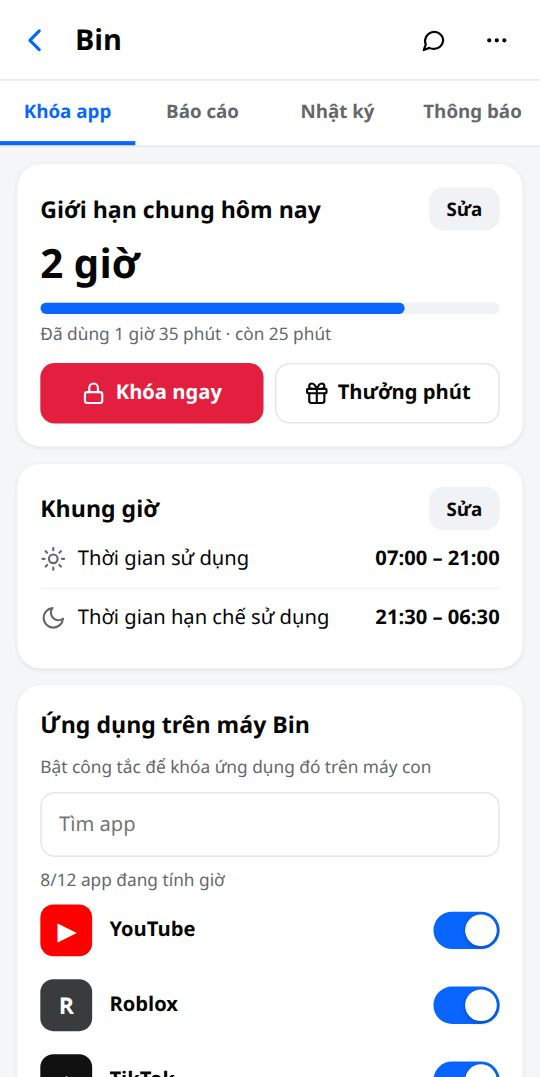
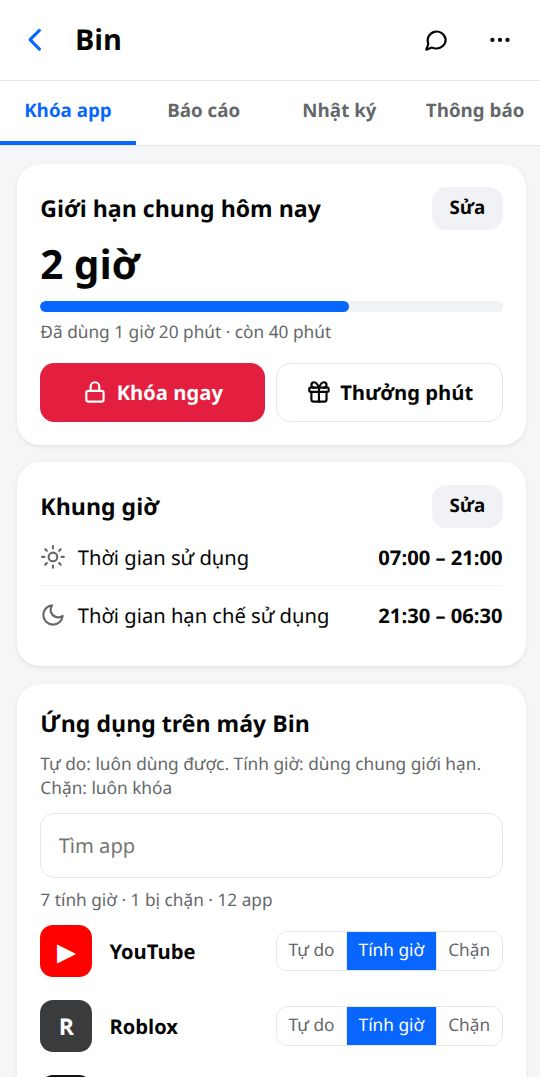
Sync guide: per-app levels Free/Timed/Blocked, blocked lock screen, copy link in log

diff --git a/guide/parent.html b/guide/parent.html
@@ -150,12 +150,13 @@
     <p>Mỗi máy con có luật riêng. Máy con bị khóa khi gặp 1 trong các trường hợp sau:</p>
     <table>
       <tr><th>Trường hợp</th><th>Khóa gì</th></tr>
-      <tr><td>Hết giới hạn chung trong ngày</td><td>Khóa các app đang <b>bật</b> công tắc. App tắt công tắc vẫn dùng được.</td></tr>
+      <tr><td>Hết giới hạn chung trong ngày</td><td>Khóa các app <b>Tính giờ</b>. App Tự do vẫn dùng được.</td></tr>
+      <tr><td>App bị cha mẹ <b>Chặn</b></td><td>Luôn khóa app đó ("Bố mẹ đã chặn app này")</td></tr>
       <tr><td>Ngoài <b>Thời gian sử dụng</b></td><td>Khóa cả máy</td></tr>
       <tr><td>Trong <b>Thời gian hạn chế sử dụng</b> (giờ ngủ)</td><td>Khóa cả máy</td></tr>
       <tr><td>Cha mẹ bấm <b>Khóa ngay</b></td><td>Khóa cả máy tới khi mở khóa</td></tr>
     </table>
-    <div class="note"><b>Khi máy bị khóa, con vẫn:</b> gọi điện thoại, nhắn tin và gọi video cho người trong nhóm qua kidguard, mở các app tắt công tắc (ví dụ Google Classroom, Zalo).</div>
+    <div class="note"><b>Khi máy bị khóa, con vẫn:</b> gọi điện thoại, nhắn tin và gọi video cho người trong nhóm qua kidguard, mở các app Tự do (ví dụ Google Classroom, Zalo).</div>
     <div class="note"><b>Ngày mới bắt đầu lúc 00:00</b> theo giờ trên máy con. Phút đã dùng và phút thưởng quay về 0.</div>
   </section>
 
@@ -173,22 +174,23 @@
     </div>
     <p>Thanh xanh dưới số giờ cho biết con đã dùng bao nhiêu, còn bao nhiêu.</p>
     <div class="cases">
-      <div><b>Khi</b> giảm giới hạn xuống thấp hơn số con đã dùng → các app bật công tắc bị khóa ngay.</div>
+      <div><b>Khi</b> giảm giới hạn xuống thấp hơn số con đã dùng → các app Tính giờ bị khóa ngay.</div>
       <div><b>Khi</b> máy con mất mạng → máy vẫn khóa đúng theo luật đã lưu. Luật mới chỉ tới khi có mạng lại.</div>
     </div>
   </section>
 
   <section id="apps">
-    <h2>Chọn app tính giờ</h2>
-    <p>Kéo xuống thẻ <b>Ứng dụng trên máy …</b>. Mỗi app có 1 công tắc.</p>
+    <h2>Chọn mức cho từng app</h2>
+    <p>Kéo xuống thẻ <b>Ứng dụng trên máy …</b>. Mỗi app có 3 nút: <span class="ui">Tự do</span> · <span class="ui">Tính giờ</span> · <span class="ui">Chặn</span>. Mặc định: Tự do.</p>
     <table>
-      <tr><th>Công tắc</th><th>Nghĩa là</th><th>Nên dùng cho</th></tr>
-      <tr><td><b>Bật</b> (xanh)</td><td>App được tính vào giới hạn chung. Hết giờ thì khóa.</td><td>YouTube, TikTok, game</td></tr>
-      <tr><td><b>Tắt</b> (xám)</td><td>Con dùng tự do, không tính giờ, không bị khóa khi hết giờ.</td><td>Học tập, Zalo, Máy tính, Camera</td></tr>
+      <tr><th>Mức</th><th>Nghĩa là</th><th>Nên dùng cho</th></tr>
+      <tr><td><b>Tự do</b></td><td>Con dùng tự do, không tính giờ, không bị khóa khi hết giờ.</td><td>Học tập, Zalo, Máy tính, Camera</td></tr>
+      <tr><td><b>Tính giờ</b></td><td>App được tính vào giới hạn chung. Hết giờ thì khóa.</td><td>YouTube, TikTok, game</td></tr>
+      <tr><td><b>Chặn</b></td><td>Luôn khóa, kể cả còn giờ và trong khung giờ được dùng. Không tính giờ.</td><td>App không muốn con dùng</td></tr>
     </table>
     <p>Ô <span class="ui">Tìm app</span> giúp tìm nhanh khi máy có nhiều app. Dưới mỗi app ghi số phút con đã dùng hôm nay.</p>
     <div class="cases">
-      <div><b>Khi</b> con cài app mới → app hiện trong danh sách. Cha mẹ kiểm tra và bật công tắc nếu cần.</div>
+      <div><b>Khi</b> con cài app mới → app hiện trong danh sách. Cha mẹ kiểm tra và chọn Tính giờ hoặc Chặn nếu cần.</div>
       <div><b>Khi</b> app luôn dùng được → vẫn bị khóa trong giờ ngủ và khi Khóa ngay (vì khóa cả máy).</div>
     </div>
   </section>
@@ -245,7 +247,7 @@
       <li>Bấm vào con → tab <span class="ui">Báo cáo</span>.</li>
       <li>Thẻ <b>Hôm nay</b>: tổng thời gian đã dùng và giới hạn.</li>
       <li>Biểu đồ <b>7 ngày gần nhất</b>: cột đỏ là ngày dùng quá giới hạn. Bấm 1 cột để xem riêng ngày đó.</li>
-      <li><b>Theo app</b>: số phút từng app. App ghi "không tính giờ" là app tắt công tắc.</li>
+      <li><b>Theo app</b>: số phút từng app. App Tự do ghi "không tính giờ", app bị Chặn ghi "bị chặn".</li>
     </ol>
     <div class="shots"><figure><img src="images/p-report.jpg" alt="Báo cáo"><figcaption>Báo cáo 7 ngày</figcaption></figure></div>
   </section>
@@ -257,7 +259,7 @@
       <li>Bấm vào con → tab <span class="ui">Nhật ký</span>.</li>
       <li>Ô bên trái: chọn ngày (<span class="ui">Hôm nay</span>, <span class="ui">Hôm qua</span>, hoặc <span class="ui">Chọn ngày…</span> trong 3 tháng gần nhất).</li>
       <li>Ô bên phải: chọn loại (<span class="ui">Tất cả</span>, App, Tìm kiếm, Web, Video, Cảnh báo).</li>
-      <li>Bấm 1 dòng để xem đầy đủ.</li>
+      <li>Bấm 1 dòng để xem đầy đủ. Dòng <span class="ui">Web</span> hoặc <span class="ui">Video</span> có nút <span class="ui">Sao chép link</span>: bấm để lưu link, rồi dán vào tin nhắn hoặc trình duyệt.</li>
     </ol>
     <div class="shots"><figure><img src="images/p-log.jpg" alt="Nhật ký"><figcaption>Nhật ký hoạt động</figcaption></figure></div>
     <div class="note"><b>App không ghi</b> ảnh, tin nhắn, mật khẩu. Nhật ký tự xóa sau 3 tháng.</div>
@@ -396,7 +398,7 @@
     <h2>Máy con không khóa</h2>
     <ol>
       <li>Tab Gia đình: con có nhãn <b>thiếu quyền</b> không? Có → trên máy con bấm <span class="ui">Bật lại</span> ở thông báo đỏ, bật kidguard trong Trợ năng.</li>
-      <li>Kiểm tra công tắc của app đó đã <b>bật</b> chưa (tab Khóa app).</li>
+      <li>Kiểm tra app đó đang ở mức <b>Tính giờ</b> hoặc <b>Chặn</b> chưa (tab Khóa app).</li>
       <li>Kiểm tra máy con cho kidguard chạy nền: Cài đặt pin → kidguard → Không giới hạn (cách làm theo hãng ở <a href="child.html#setup">hướng dẫn cho con</a>).</li>
       <li>Vẫn không được → gỡ kidguard trên máy con, cài lại, nhập mã nhóm, cha mẹ duyệt lại.</li>
     </ol>

diff --git a/guide/child.html b/guide/child.html
@@ -80,7 +80,7 @@
     <p>Ở bước 4, chọn đúng hãng máy rồi làm theo:</p>
     <table>
       <tr><th>Hãng</th><th>Cách làm</th></tr>
-      <tr><td>Xiaomi, Redmi, POCO</td><td>Ứng dụng → kidguard → Tiết kiệm pin → <b>Không giới hạn</b> → bật <b>Tự khởi động</b></td></tr>
+      <tr><td>Xiaomi, Redmi, POCO</td><td>Ứng dụng → kidguard → Tiết kiệm pin → <b>Không giới hạn</b>. Rồi bấm nút <span class="ui">Mở trang Tự khởi động</span> trong app và bật <b>kidguard</b> (nếu nút không mở được, app sẽ mở trang Thông tin ứng dụng để bạn bật tay)</td></tr>
       <tr><td>Samsung</td><td>Ứng dụng → kidguard → Pin → <b>Không hạn chế</b></td></tr>
       <tr><td>Oppo, Realme</td><td>Pin → kidguard → bật <b>Chạy nền</b> → bật <b>Tự khởi động</b></td></tr>
       <tr><td>Hãng khác</td><td>Ứng dụng → kidguard → Pin → <b>Không tối ưu</b></td></tr>
@@ -100,7 +100,7 @@
       <li>Dòng dưới vòng: hôm nay được bao nhiêu giờ (có ghi thêm nếu cha mẹ thưởng phút).</li>
       <li><b>Khung giờ</b>: giờ được dùng máy và giờ hạn chế (giờ ngủ).</li>
       <li><b>App tính giờ</b>: các app trừ vào số phút, kèm số phút đã dùng.</li>
-      <li><b>Luôn dùng được</b>: các app không tính giờ.</li>
+      <li><b>Luôn dùng được</b>: các app Tự do (không tính giờ). App bị cha mẹ Chặn không nằm ở đây.</li>
     </ul>
     <div class="shots"><figure><img src="images/c-today.jpg" alt="Tab Hôm nay"><figcaption>Tab Hôm nay</figcaption></figure></div>
     <div class="tip"><b>Mẹo</b>Còn 5 phút, app báo trước để con lưu bài, thoát game.</div>
@@ -112,18 +112,19 @@
     <table>
       <tr><th>Lý do</th><th>Khóa gì</th><th>Được dùng lại khi</th></tr>
       <tr><td>Hết giờ hôm nay</td><td>Chỉ các app tính giờ</td><td>00:00 ngày mai, hoặc cha mẹ thưởng phút</td></tr>
+      <tr><td>Cha mẹ chặn app đó</td><td>Chỉ app bị chặn ("Bố mẹ đã chặn app này")</td><td>Cha mẹ đổi app về Tự do hoặc Tính giờ</td></tr>
       <tr><td>Ngoài giờ được dùng / giờ ngủ</td><td>Cả máy</td><td>Tới giờ được dùng</td></tr>
       <tr><td>Cha mẹ bấm Khóa ngay</td><td>Cả máy</td><td>Cha mẹ bấm Mở khóa</td></tr>
     </table>
     <div class="shots">
       <figure><img src="images/c-lock-timeup.jpg" alt="Hết giờ"><figcaption>Hết giờ</figcaption></figure>
+      <figure><img src="images/c-lock-blocked.jpg" alt="App bị chặn"><figcaption>App bị chặn</figcaption></figure>
       <figure><img src="images/c-lock-sleep.jpg" alt="Giờ ngủ"><figcaption>Giờ ngủ</figcaption></figure>
     </div>
     <p>Khi bị khóa, con vẫn:</p>
     <ul>
       <li>Bấm <span class="ui">Gọi điện</span> để gọi điện thoại.</li>
       <li>Bấm <span class="ui">Nhắn cha mẹ</span> để nhắn tin, gọi video qua kidguard.</li>
-      <li>Mở các app ở dòng <b>Vẫn dùng được</b> (ví dụ Zalo, Google Classroom, Camera, Máy tính).</li>
     </ul>
     <div class="tip"><b>Muốn thêm giờ?</b>Bấm <span class="ui">Nhắn cha mẹ</span> để xin. Cha mẹ thưởng phút là con dùng được ngay.</div>
   </section>
